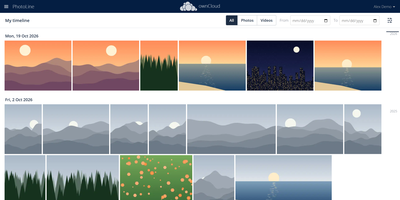
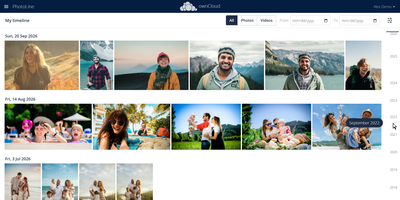
New screenshots: Unsplash vacation photos over nine years, scrubber hover

diff --git a/README.md b/README.md
@@ -145,8 +145,11 @@ are installed or enabled from the Marketplace. To publish:
    `apps/photos_timeline/releases/<version>/package.tar.gz` (Git LFS, signed
    commits with a DCO `Signed-off-by` line).
 
-The screenshots in `screenshots/` (referenced from `appinfo/info.xml`) show
-generated demo images only.
+The screenshots in `screenshots/` (referenced from `appinfo/info.xml`) were
+taken on a test instance with a demo account and stock photos.
+
+Demo photos in the screenshots: [Unsplash](https://unsplash.com), used under
+the [Unsplash License](https://unsplash.com/license).
 
 ## Reporting security problems
 

diff --git a/CHANGELOG.md b/CHANGELOG.md
@@ -3,7 +3,7 @@
 ## Unreleased
 
 - Marketplace metadata in `appinfo/info.xml`: website, issue tracker,
-  repository, documentation links and screenshots (generated demo images).
+  repository, documentation links and screenshots (demo account, Unsplash photos).
 - Author set to Radoslaw Cichocki; SECURITY.md explains private vulnerability reports.
 - `make-package.sh` builds the Marketplace package (run-time files only),
   signed with `ocsign` when a key and certificate are given.
